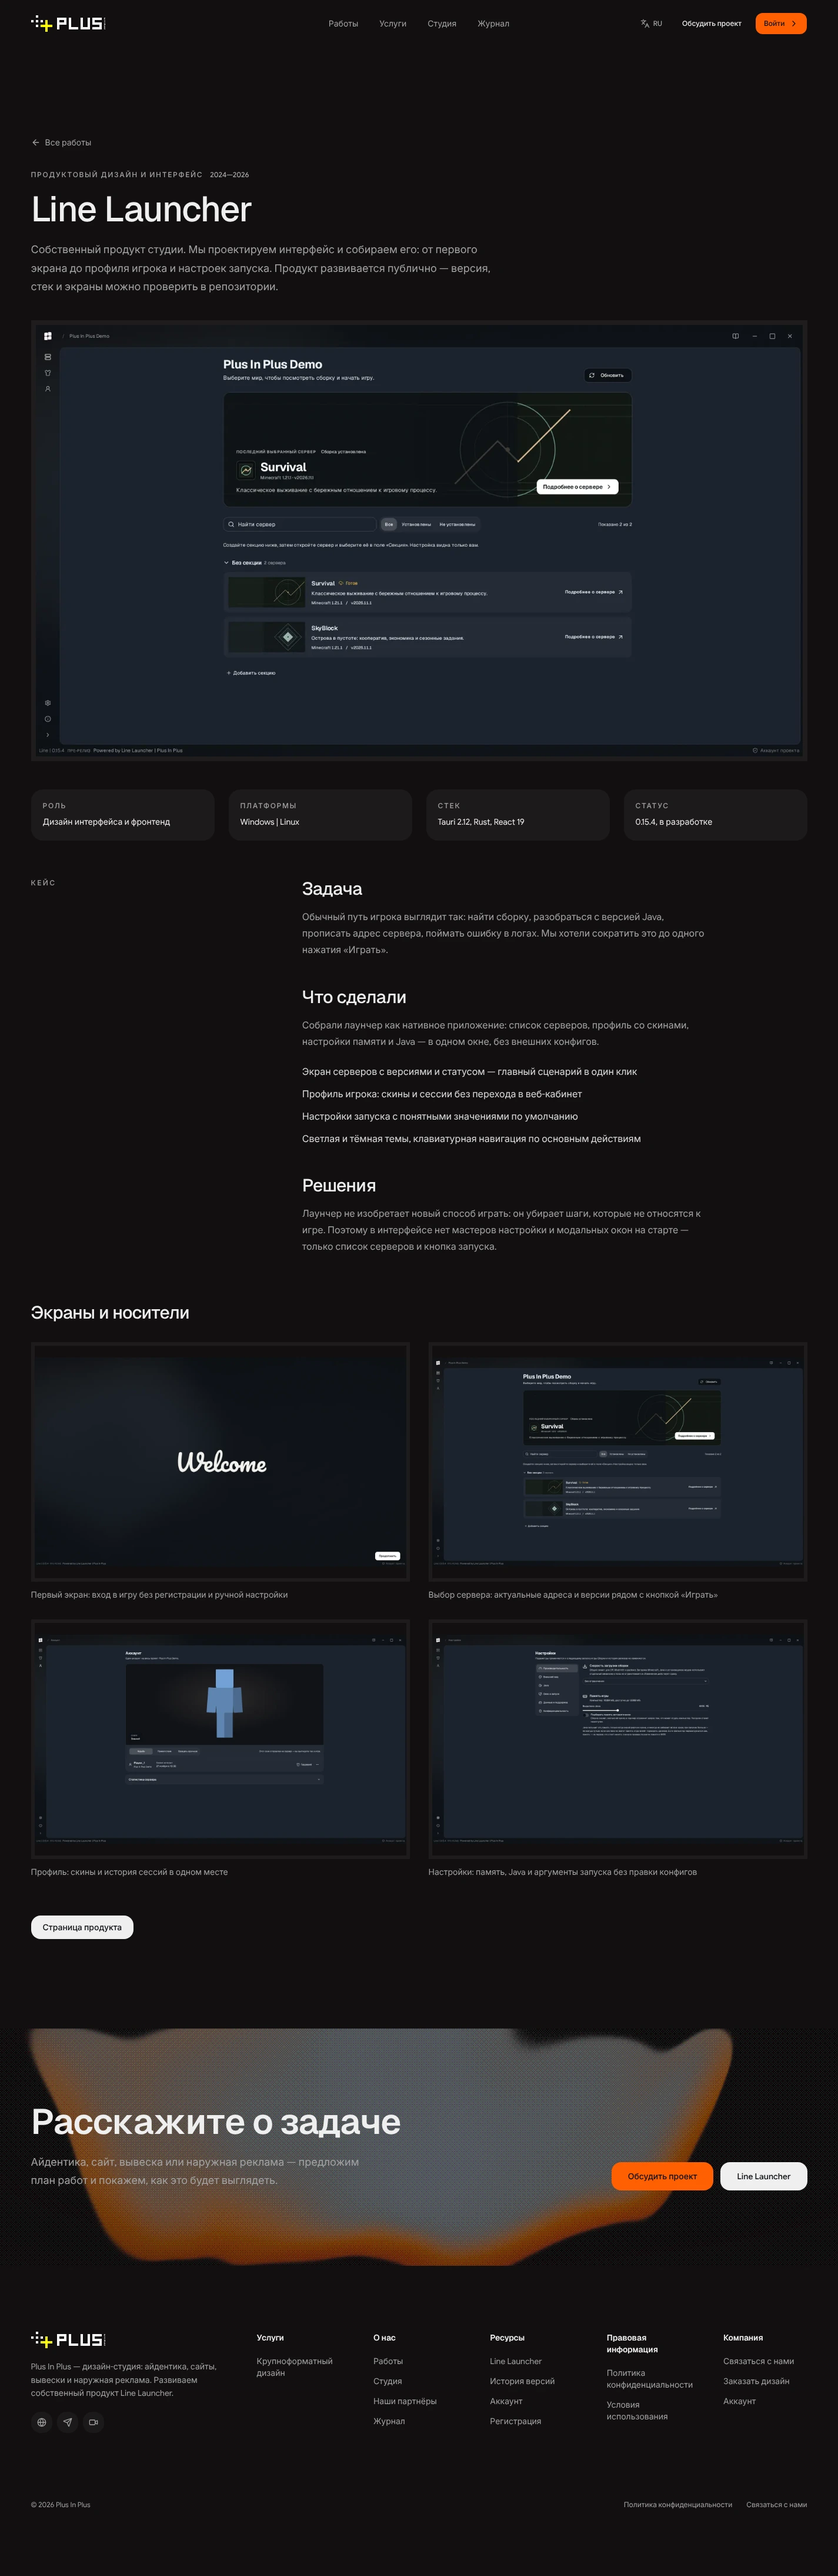
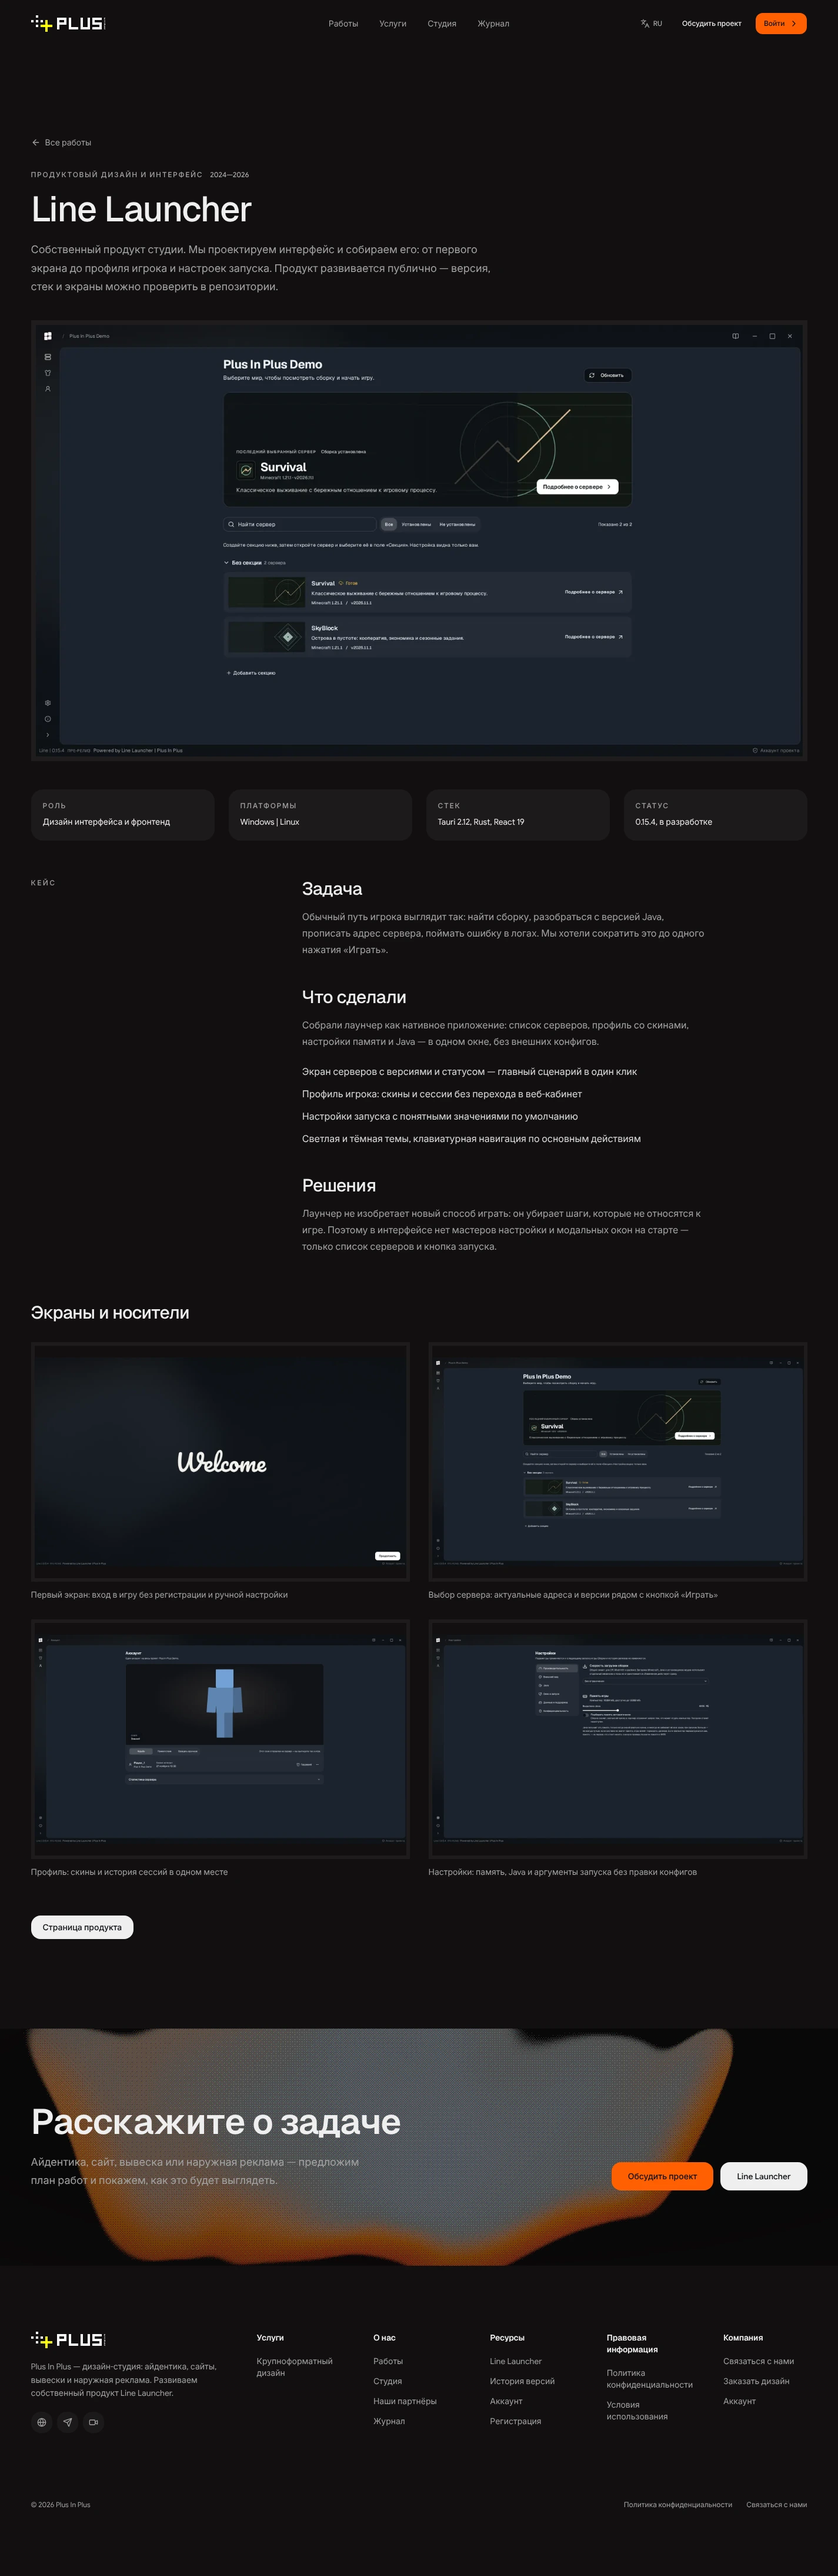
Градиенты владельца применяются ровно как в редакторе
SectionGlow и PageGlow больше не пересчитывают присланный градиент: эффект,
размер клетки, число ступеней, зерно, движение и база холста берутся прямо из
ссылки. Раньше проект подставлял свою клетку (4 CSS px) и свои ступени, из-за
чего растр становился крупнее, чем в редакторе, и читался как сетка пикселей.

Следствие, видимое на кадрах: клетка теперь масштабируется по размеру блока
(первый экран ≈3 px, CTA ≈2 px), как это делает сам шейдер в редакторе.

Changed region(s): [[0.0309, 0.777, 0.8646, 0.9013]]

diff --git a/components/site/section-glow.tsx b/components/site/section-glow.tsx
@@ -73,23 +73,12 @@ function buildConfig(
     effectAmount: ascii ? 0.9 : 1,
   };
   if (!colors) return builtIn;
-  // Авторский градиент задаёт всё, кроме типа эффекта и размера ячейки:
-  // владелец собирает свет, плотность и движение в редакторе, а проект
-  // отвечает за то, что это dither/ascii и что клетка измерена в CSS-пикселях.
-  return {
-    ...builtIn,
-    ...colors,
-    effect: builtIn.effect,
-    // Число ступеней и зерно — правила проекта: из ссылки берутся краски,
-    // свет и движение, а не плотность растра. Малое число ступеней превращает
-    // плавный градиент в сплошную серую сетку из точек.
-    effectAmount: builtIn.effectAmount,
-    grain: builtIn.grain,
-    effectSize,
-    // База холста — цвет страницы: иначе чёрный прямоугольник шейдера виден
-    // на фоне #110F10 как отдельная плашка.
-    background: builtIn.background,
-  };
+  // Присланный градиент применяется ровно так, как собран в редакторе: эффект,
+  // размер клетки, число ступеней, зерно, движение и база холста — всё из
+  // ссылки. Проект не пересчитывает масштаб, иначе рисунок перестаёт совпадать
+  // с тем, что владелец видел в редакторе: клетка становится крупнее и растр
+  // читается как сетка пикселей.
+  return colors;
 }
 
 interface SectionGlowProps {

diff --git a/components/site/page-glow.tsx b/components/site/page-glow.tsx
@@ -49,10 +49,10 @@ export function PageGlow({
   }, [cell]);
 
   const colors = presetConfig(preset);
-  // Краски, свет и движение — из присланного градиента; тип эффекта, размер
-  // клетки, число ступеней и зерно — правила проекта. Малое число ступеней
-  // превращало плавный градиент в сплошную серую сетку из точек.
-  const config: GradientConfig = {
+  // Присланный градиент применяется как есть: масштаб растра, движение и база
+  // холста — из ссылки. Пересчёт клетки под размер блока делал рисунок крупнее,
+  // чем в редакторе, и он читался как сетка пикселей.
+  const config: GradientConfig = colors ?? {
     version: 1,
     seed: 3,
     shape: "pill",
@@ -68,16 +68,15 @@ export function PageGlow({
     palette: ["#110f10", "#2b292a", "#ff5f01"],
     background: "#110f10",
     mesh: [],
+    grain: 0.02,
     motion: "drift",
     speed: 0.3,
     loop: 0,
     hover: 0,
     hoverMode: "push",
-    ...(colors ?? {}),
     effect: variant === "ascii" ? "ascii" : "dither",
     effectSize,
     effectAmount: variant === "ascii" ? 0.85 : 1,
-    grain: 0.02,
   };
 
   return (

diff --git a/lib/hazeglow-presets.ts b/lib/hazeglow-presets.ts
@@ -81,9 +81,7 @@ function payloadOf(link: string): string | null {
  * поэтому сначала проверяем JSON сами: иначе опечатка в ссылке выглядела бы как
  * «градиент применился, но какой-то чужой».
  */
-export function presetConfig(
-  preset: HazeglowPreset,
-): Partial<GradientConfig> | null {
+export function presetConfig(preset: HazeglowPreset): GradientConfig | null {
   const link = HAZEGLOW_LINKS[presetFor(preset)];
   const payload = link ? payloadOf(link) : null;
   if (!payload) return null;
